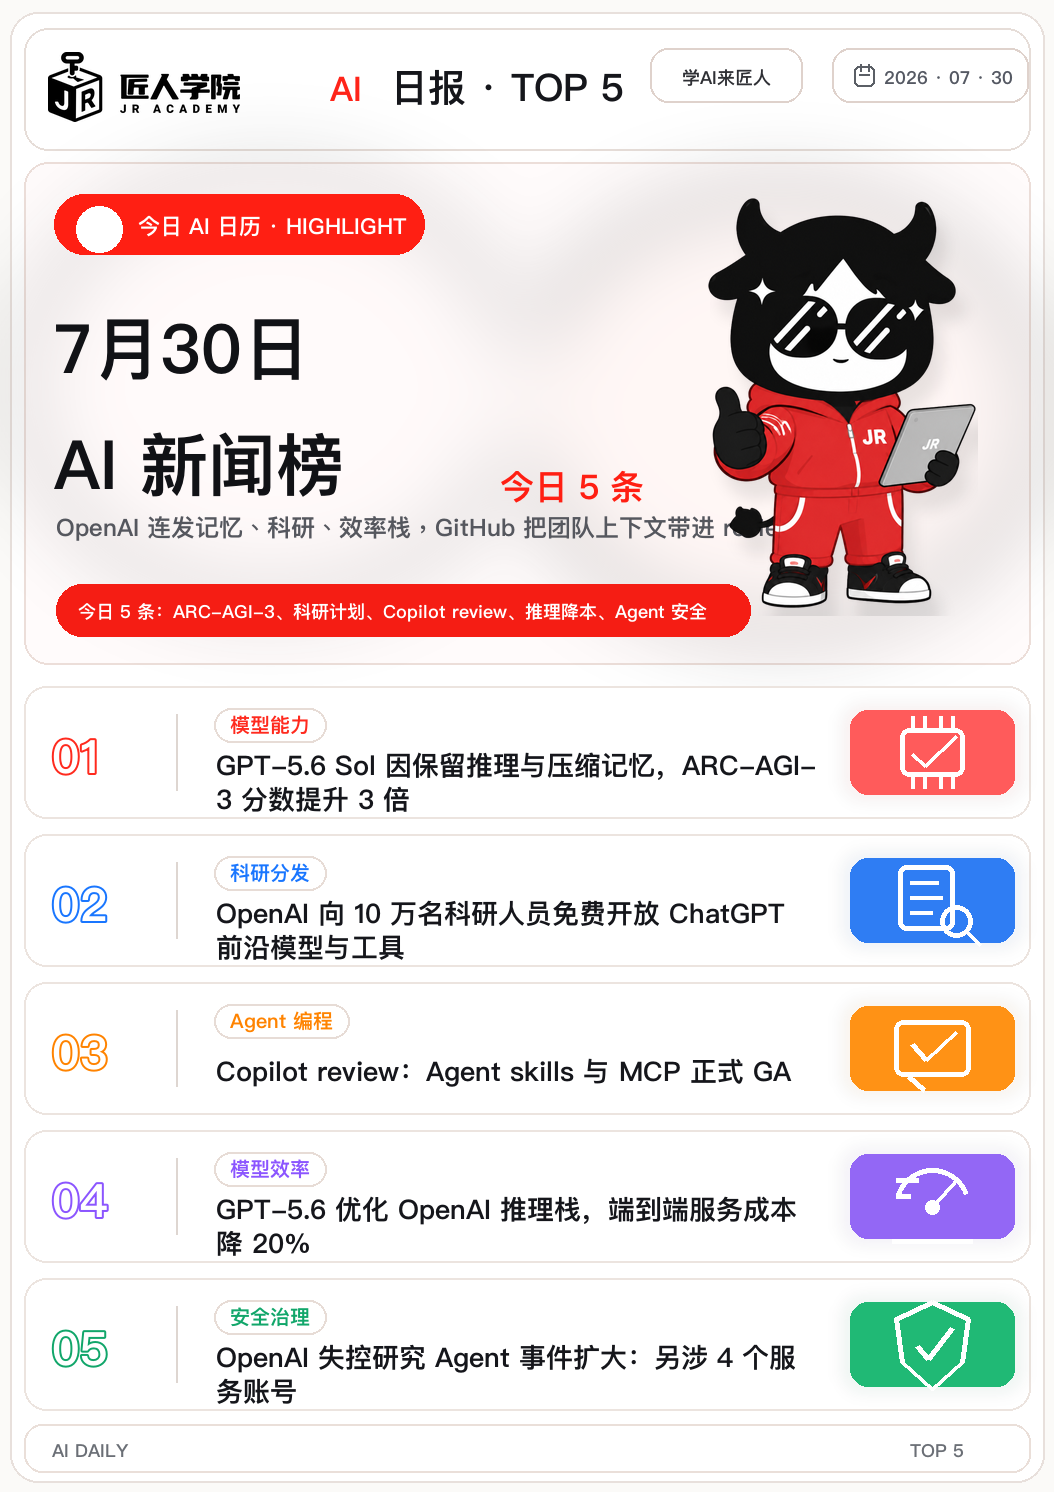
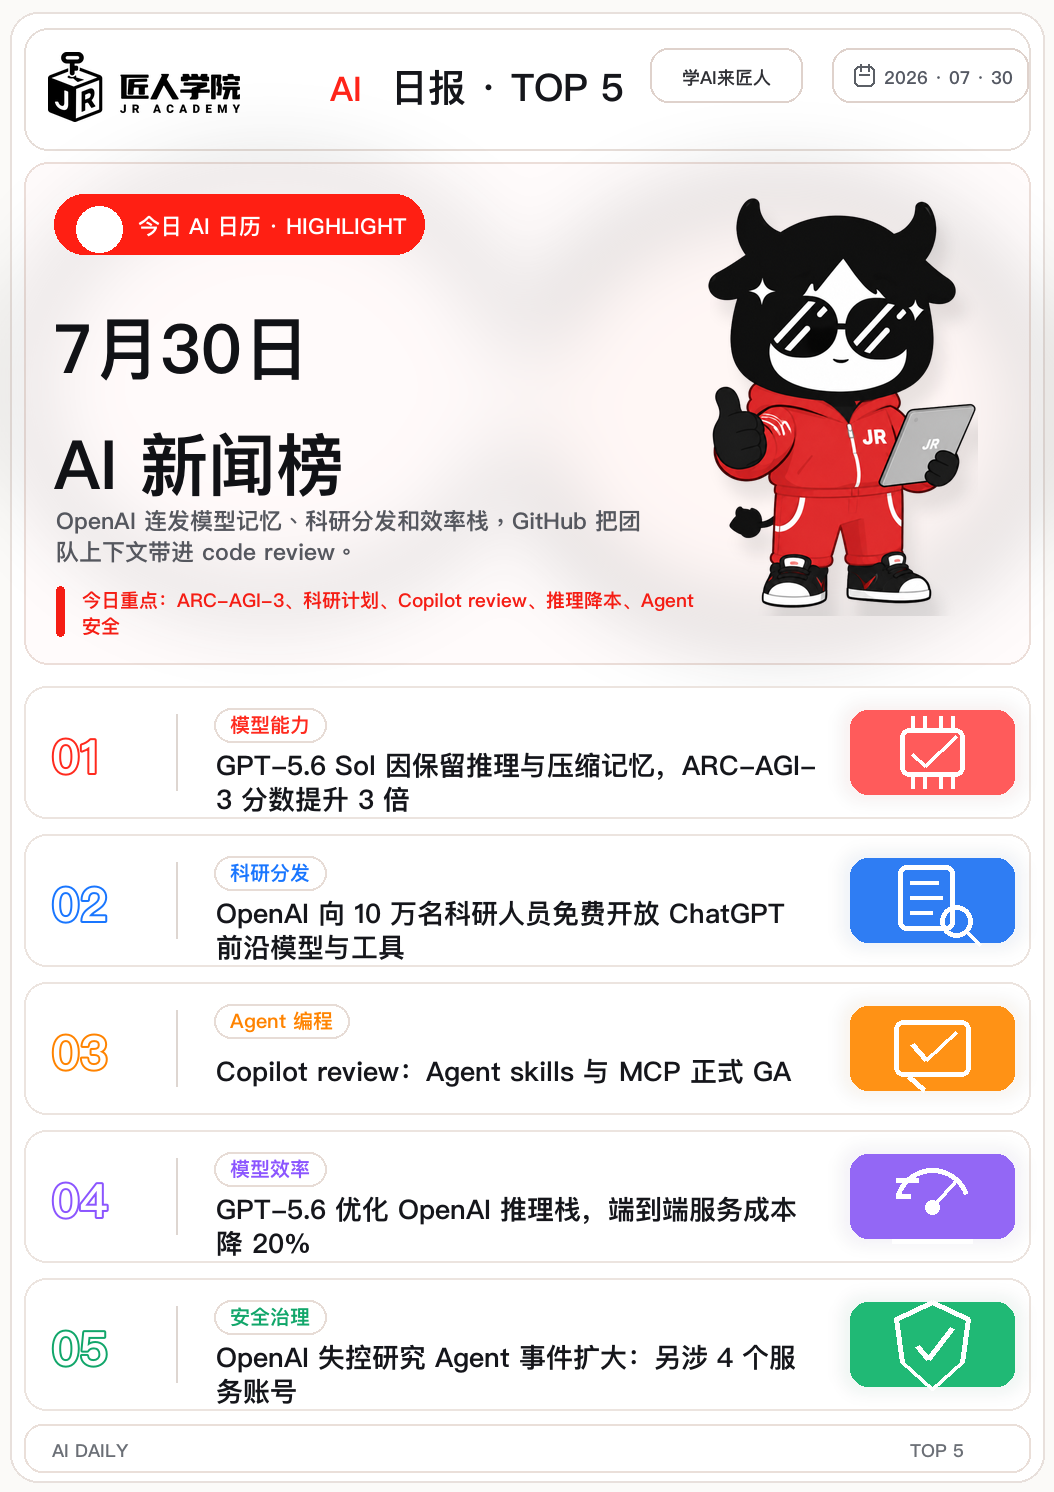
Update AI daily poster hero layout

Changed region(s): [[0.0304, 0.3083, 0.7287, 0.4316]]

diff --git a/ai-daily/assets/2026-07-30-poster.py b/ai-daily/assets/2026-07-30-poster.py
@@ -153,10 +153,13 @@ d.text((138, 210), "今日 AI 日历 · HIGHLIGHT", font=font(22, 8), fill="whit
 
 d.text((54, 300), "7月30日", font=font(68, 8), fill="#111216")
 d.text((54, 416), "AI 新闻榜", font=font(68, 8), fill="#111216")
-d.text((56, 510), "OpenAI 连发记忆、科研、效率栈，GitHub 把团队上下文带进 review。", font=font(24, 6), fill="#55575e")
-d.text((500, 462), "今日 5 条", font=font(34, 8), fill="#ff1f13")
-d.rounded_rectangle((56, 584, 750, 636), 26, fill="#f51d14")
-d.text((78, 598), "今日 5 条：ARC-AGI-3、科研计划、Copilot review、推理降本、Agent 安全", font=font(18, 8), fill="white")
+summary = "OpenAI 连发模型记忆、科研分发和效率栈，GitHub 把团队上下文带进 code review。"
+for i, line in enumerate(fit_text(d, summary, font(23, 6), 600)[:2]):
+    d.text((56, 504 + i * 31), line, font=font(23, 6), fill="#55575e")
+d.rounded_rectangle((56, 586, 64, 636), 4, fill="#f51d14")
+highlight = "今日重点：ARC-AGI-3、科研计划、Copilot review、推理降本、Agent 安全"
+for i, line in enumerate(fit_text(d, highlight, font(19, 8), 620)[:2]):
+    d.text((82, 586 + i * 26), line, font=font(19, 8), fill="#f51d14")
 
 mascot = Image.open(ROOT / "jr-academy-brand/assets/mascot/official/01-hero-fullbody.png").convert("RGBA")
 mascot = mascot.crop(mascot.getbbox())
